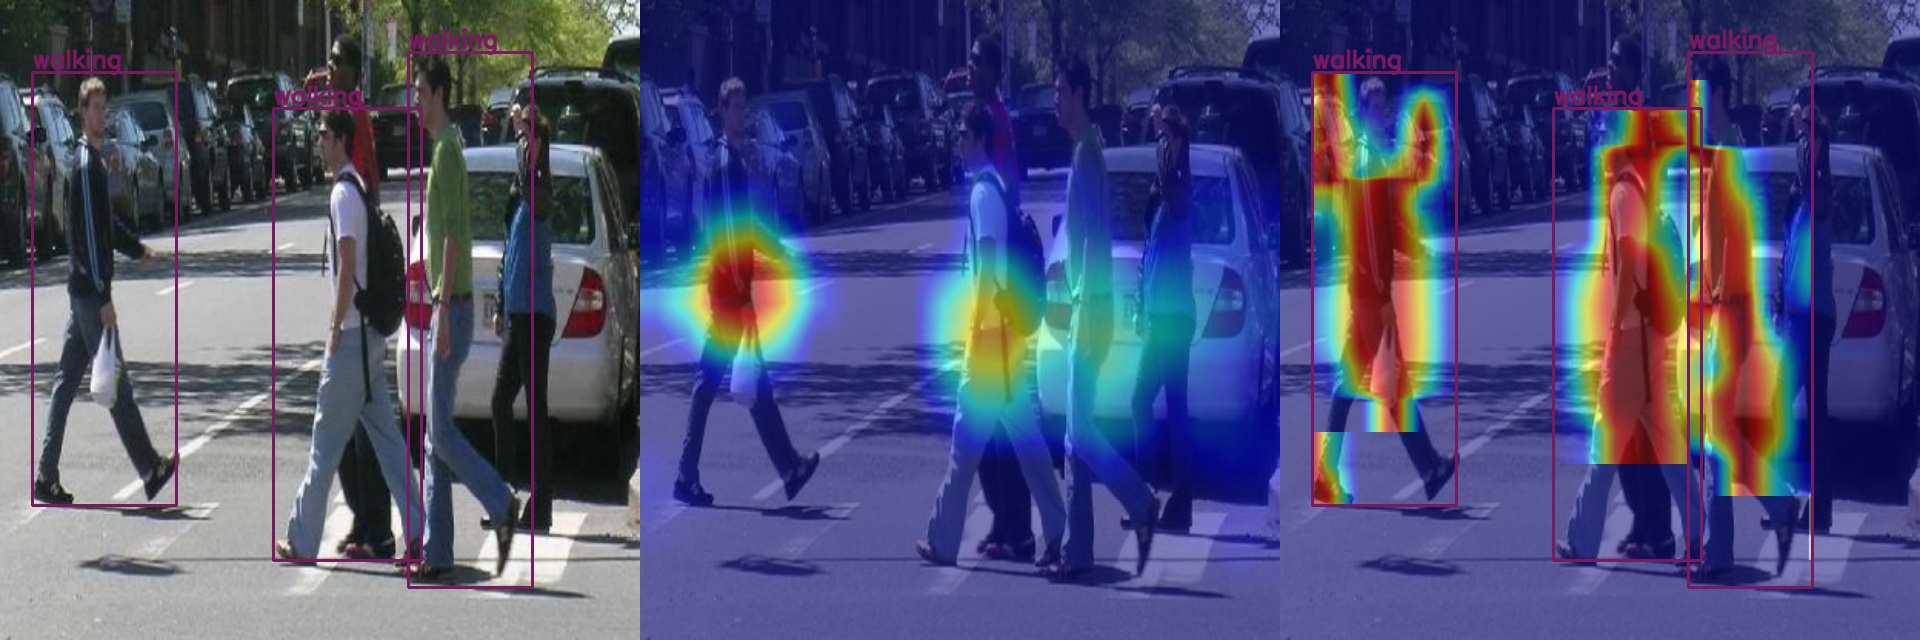
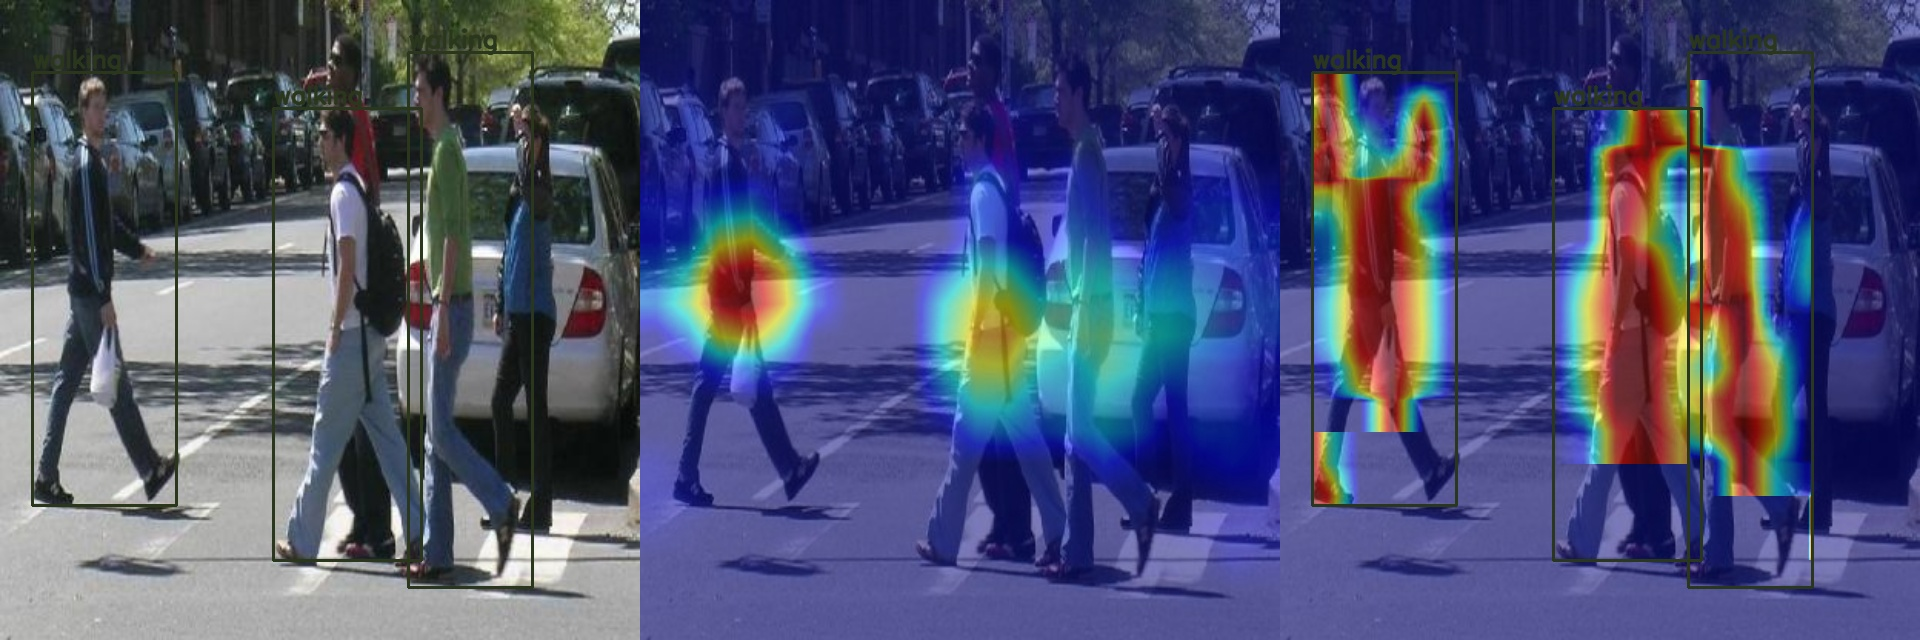
230724 Class Activation Maps Module README.md chang

diff --git a/CAM_module/README.md b/CAM_module/README.md
@@ -1,0 +1,36 @@
+### yolov7 EigenCAM module
+
+EigenCAM : Takes the first principle component of the 2D Activations  
+You can see why the custom yolov7 model recognized it as an object.  
+
+you have to install grad-cam  
+``` shell
+pip install grad-cam
+```
+
+you can be used this project by using option.  
+here is an example  
+
+options:  
+
+  -h, --help            show this help message and exit  
+  
+  --source SOURCE       img folder path  
+  
+  -w WEIGHTS, --weights WEIGHTS  
+                        yolov7 .pt file path  
+  
+  -y YOLOV7, --yolov7 YOLOV7  
+                        yolov7 folder path  
+  
+  -cn CLASS_NUM, --class_num CLASS_NUM  
+                        class_num  
+  
+  --save SAVE           save dir path  
+  
+
+``` shell
+python ./yolov7_CAM.py --source ./images -w ./yolov7_test.pt -y ../yolov7 -cn 10 --save ./runs
+```
+
+References: (https://github.com/jacobgil/pytorch-grad-cam)
